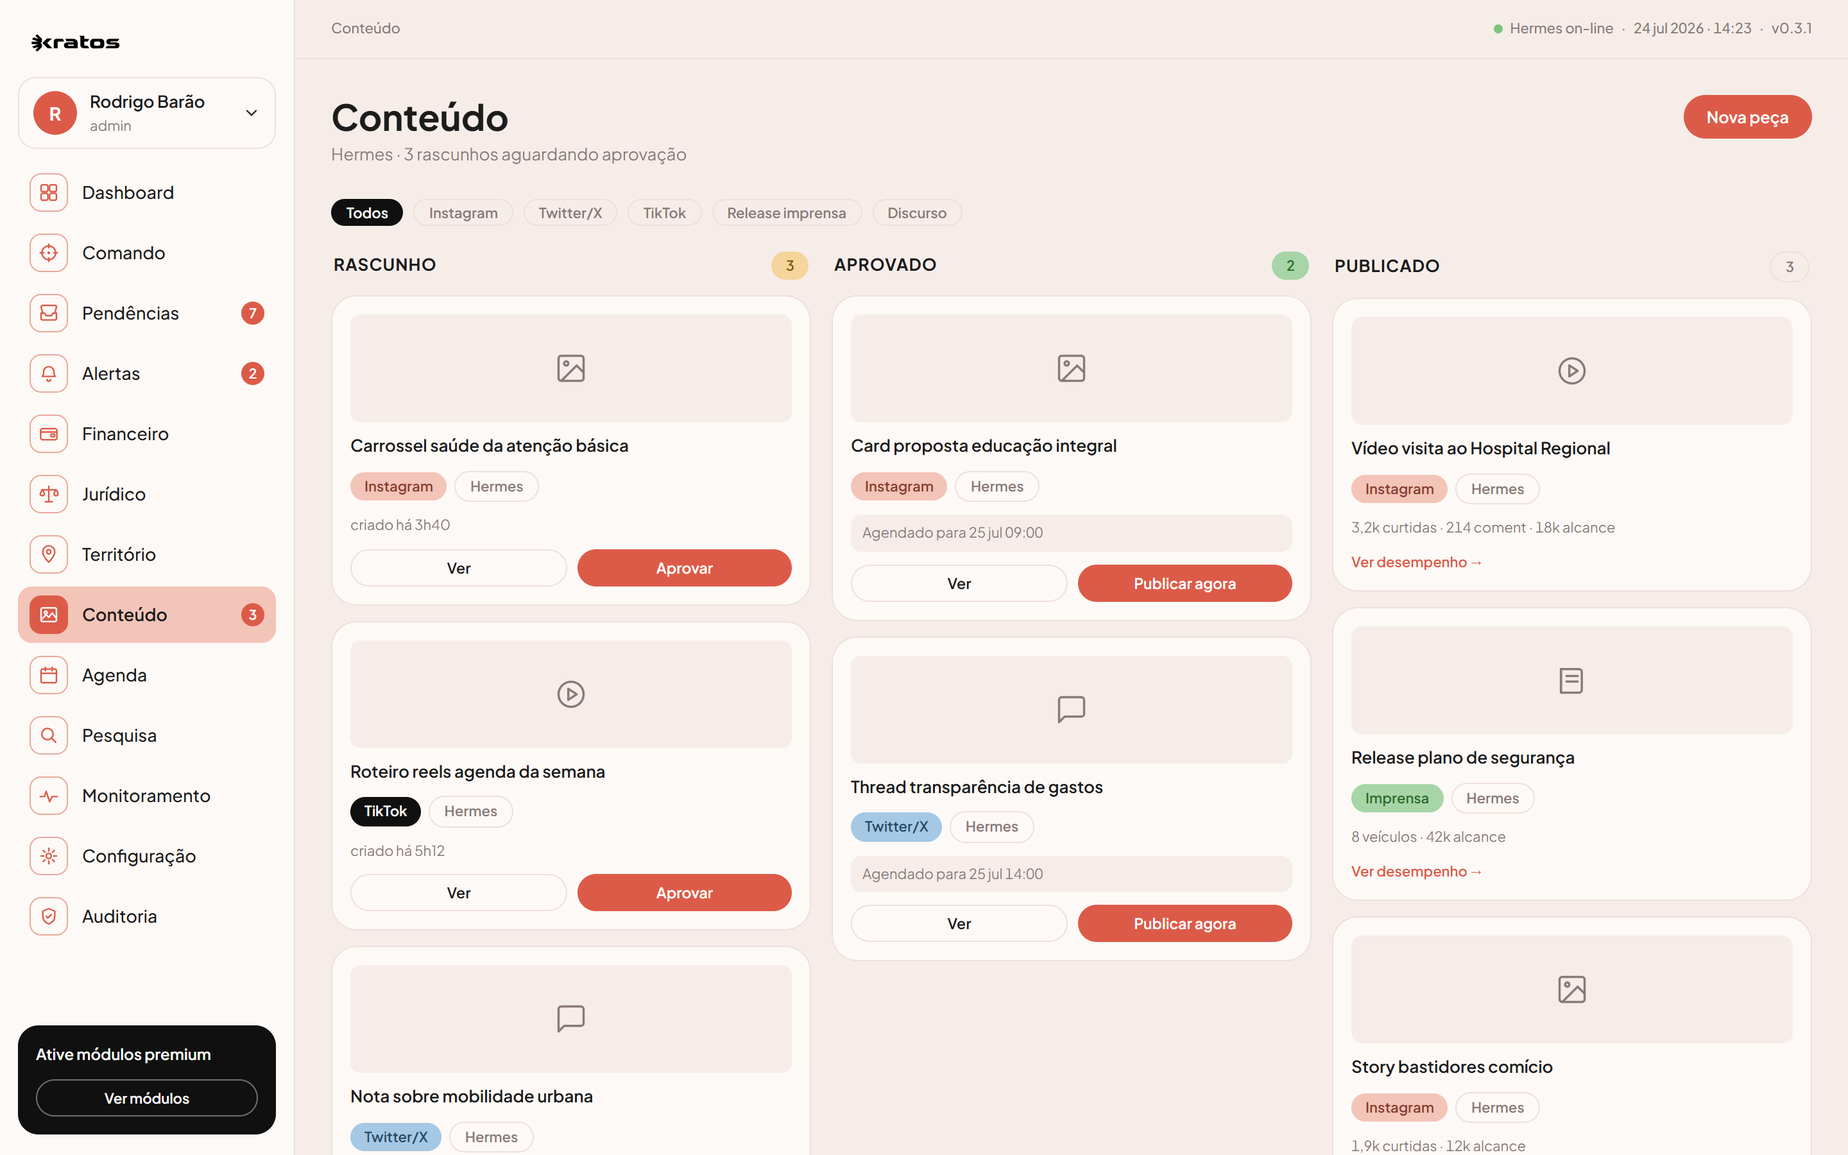
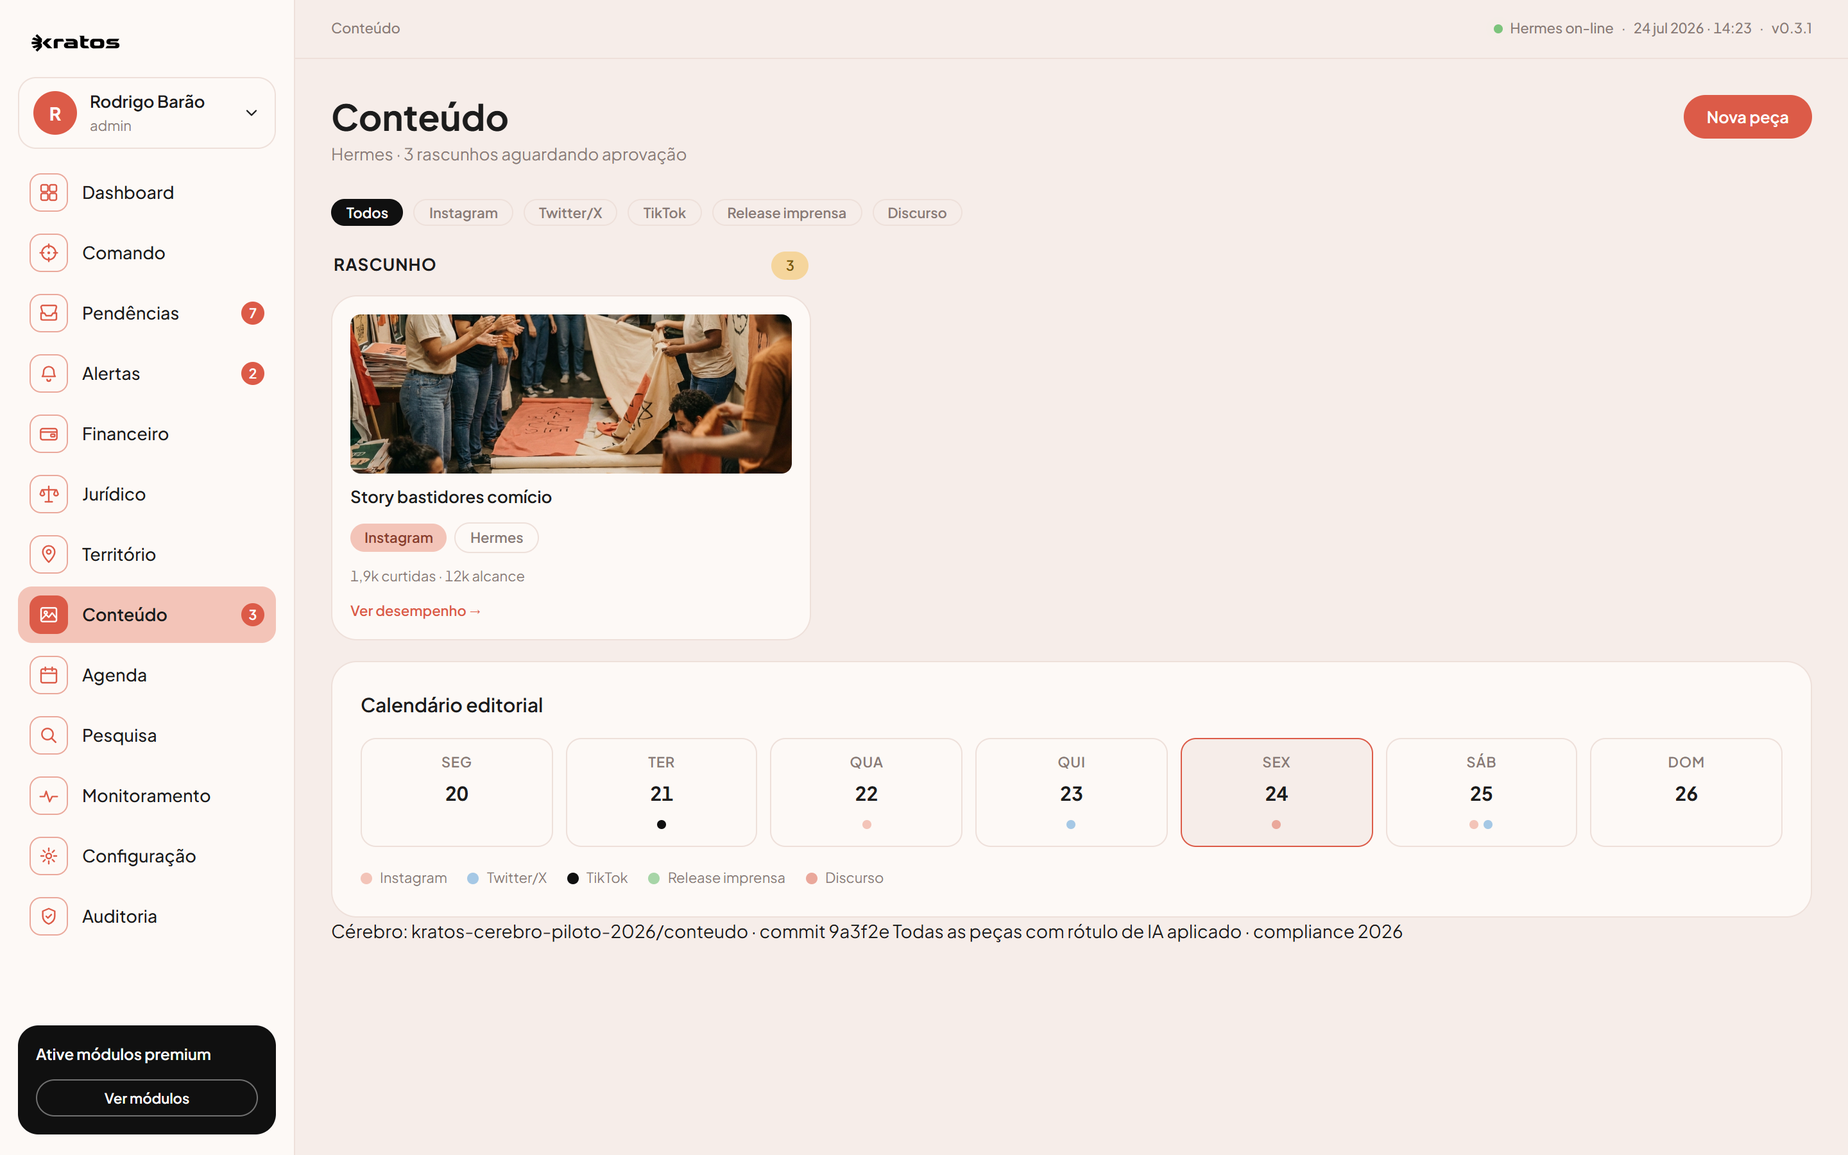
deck 18 slides: 7 telas 'como funciona' + imagem cérebro (sem oferta)

diff --git a/apresentacao.html b/apresentacao.html
@@ -8,7 +8,7 @@
 <style>
   :root{
     --base:#f6ede9; --white:#fdf9f6; --preto:#0d0b0a; --preto2:#161210;
-    --coral:#dc5b48; --coral-suave:#eaa89b; --coral-deep:#b23a28;
+    --coral:#dc5b48; --coral-suave:#eaa89b; --coral-deep:#b23a28; --coral-hover:#c44e3d;
     --verde:#7cc47c; --vermelho:#e05555; --ambar:#e6a52e; --azul:#5c9ad1;
     --texto:#1c1c1c; --muted:#8a7a76; --border:#eee0da; --border-dark:#2c2622;
     --font:"Plus Jakarta Sans",-apple-system,BlinkMacSystemFont,"Segoe UI",Roboto,system-ui,sans-serif;
@@ -60,7 +60,7 @@
   @media (max-width:860px){.cols,.cols.rev{grid-template-columns:1fr;gap:22px;}}
 
   /* browser frame p/ screenshots */
-  .browser{border-radius:13px;overflow:hidden;box-shadow:0 26px 60px rgba(0,0,0,.28);border:1px solid rgba(0,0,0,.08);background:#fff;}
+  .browser{border-radius:13px;overflow:hidden;box-shadow:0 26px 60px rgba(0,0,0,.28);border:1px solid rgba(0,0,0,.08);background:#fff;position:relative;}
   .dark .browser{border-color:#2c2622;box-shadow:0 30px 70px rgba(0,0,0,.5);}
   .browser .bbar{background:#ece3d9;padding:9px 13px;display:flex;align-items:center;gap:7px;}
   .browser .bdot{width:11px;height:11px;border-radius:50%;flex:none;}
@@ -69,7 +69,6 @@
   .browser.clic{cursor:pointer;transition:transform .18s var(--ease),box-shadow .18s var(--ease);}
   .browser.clic:hover{transform:translateY(-3px);box-shadow:0 34px 74px rgba(0,0,0,.34);}
   .browser .opendica{position:absolute;top:10px;right:12px;background:var(--coral);color:#fff;font-size:10.5px;font-weight:700;letter-spacing:0.04em;padding:4px 10px;border-radius:99px;opacity:0;transition:opacity .18s;pointer-events:none;}
-  .browser{position:relative;}
   .browser.clic:hover .opendica{opacity:1;}
   .shotcap{margin-top:14px;font-size:13px;color:var(--muted);font-weight:600;text-align:center;}
   .dark .shotcap{color:#b7a99e;}
@@ -82,6 +81,10 @@
   .photohero{border-radius:16px;overflow:hidden;box-shadow:0 26px 60px rgba(0,0,0,.3);}
   .photohero img{display:block;width:100%;height:100%;max-height:66vh;object-fit:cover;}
 
+  /* concept image (imagem-assinatura) */
+  .conceptframe{border-radius:18px;overflow:hidden;box-shadow:0 34px 80px rgba(0,0,0,.55);border:1px solid rgba(220,91,72,.28);}
+  .conceptframe img{display:block;width:100%;max-height:66vh;object-fit:cover;}
+
   /* flow / cards */
   .flowcards{display:grid;grid-template-columns:1fr 1fr;gap:11px;}
   .fcard{background:var(--white);border:1px solid var(--border);border-radius:13px;padding:14px 15px;}
@@ -92,6 +95,12 @@
   .srcbubble .mic{width:42px;height:42px;border-radius:11px;background:var(--coral);flex:none;display:flex;align-items:center;justify-content:center;}
   .srcbubble .mic svg{width:19px;height:19px;fill:#fff;}
   .srcbubble .qt{font-size:14px;line-height:1.4;font-style:italic;}
+
+  /* highlights list (financeiro/juridico etc) */
+  .hlist{display:flex;flex-direction:column;gap:9px;margin-top:16px;}
+  .hitem{display:flex;gap:11px;align-items:flex-start;font-size:14.5px;line-height:1.4;color:var(--texto);}
+  .dark .hitem{color:#d8ccc2;}
+  .hitem .bt{width:9px;height:9px;border-radius:3px;background:var(--coral);flex:none;margin-top:6px;} .hitem b{font-weight:700;}
 
   /* thermometer */
   .thermo{display:flex;flex-direction:column;gap:14px;margin-top:8px;}
@@ -126,14 +135,6 @@
   .secitem .chk{width:25px;height:25px;border-radius:8px;background:#1e2a1e;border:1px solid #2f4a2f;flex:none;display:flex;align-items:center;justify-content:center;}
   .secitem .chk svg{width:13px;height:13px;stroke:var(--verde);}
   .secitem .st{font-size:14.5px;line-height:1.4;color:#c7b8ac;} .secitem .st b{color:#fff;font-weight:600;}
-
-  /* offer */
-  .seal{display:inline-flex;flex-direction:column;align-items:center;justify-content:center;width:112px;height:112px;border-radius:50%;
-    background:linear-gradient(135deg,#f0d17a,#dca94a);color:#5a3d0e;font-weight:800;text-align:center;box-shadow:0 14px 34px rgba(220,169,74,.4);margin-bottom:22px;}
-  .seal .big{font-size:26px;line-height:1;} .seal .sm{font-size:10px;letter-spacing:0.14em;text-transform:uppercase;margin-top:4px;}
-  .offlist{display:flex;flex-direction:column;gap:12px;max-width:620px;margin-top:18px;}
-  .offitem{display:flex;gap:11px;align-items:flex-start;font-size:14.5px;line-height:1.4;}
-  .offitem .bt{width:9px;height:9px;border-radius:3px;background:var(--coral);flex:none;margin-top:6px;} .offitem b{font-weight:700;}
 
   .cta-btn{display:inline-block;margin-top:28px;background:var(--coral);color:#fff;font-weight:800;font-size:clamp(15px,1.7vw,20px);padding:15px 30px;border-radius:99px;text-decoration:none;transition:transform .16s var(--ease),background .16s;}
   .cta-btn:hover{background:var(--coral-hover);transform:translateY(-2px);}
@@ -223,41 +224,73 @@
     </div>
   </section>
 
-  <!-- 6 FOTO DA NOTA (foto real + screenshot financeiro) -->
+  <!-- 6 FINANCEIRO (foto real + copy enriquecida) -->
   <section class="slide light">
     <div class="slide-inner cols rev">
       <div class="rise">
         <div class="photohero"><img src="assets/process/nota-foto.png" alt="Foto de nota fiscal sendo tirada"></div>
       </div>
       <div>
-        <div class="eyebrow rise">A dor que tira seu sono</div>
+        <div class="eyebrow rise">Financeiro · todo mundo no mesmo lugar</div>
         <h1 class="head rise">A foto de uma nota vira sua prestação de contas.</h1>
-        <p class="body rise">A equipe fotografa a nota no grupo. O Kratos lê o valor, o CNPJ, a data. Arquiva sozinho na pasta certa e atualiza o seu teto de gastos na hora.</p>
-        <div class="fecho rise">Pronta o tempo todo. Nunca na véspera. <span class="hl">Nunca estourando o teto.</span></div>
+        <p class="body rise">Tesoureiro, coordenador, fornecedor — qualquer um fotografa a nota no grupo e tudo cai no mesmo lugar, organizado sozinho. O Kratos lê os dados direto na SEFAZ (oficial, não adivinhação por foto), arquiva por fornecedor e atualiza seu teto do TSE na hora.</p>
+        <div class="hlist rise">
+          <div class="hitem"><span class="bt"></span><div><b>Prestação de contas sem surpresa</b> — pronta o tempo todo, nunca na véspera.</div></div>
+          <div class="hitem"><span class="bt"></span><div><b>Nunca estourar o teto</b> — o limite do TSE recalculado a cada gasto.</div></div>
+          <div class="hitem"><span class="bt"></span><div><b>Tudo que gasta cai organizado</b> — por fornecedor, com a nota anexada.</div></div>
+        </div>
+        <div class="fecho rise">A conta é sua. <span class="hl">O Kratos, junto do seu contador, blinda o seu nome.</span></div>
       </div>
     </div>
   </section>
 
-  <!-- 7 SHOWCASE: CONTROLE DE MISSAO (screenshot real) -->
+  <!-- 7 JURIDICO (novo: foto + tela juridico) -->
   <section class="slide light">
-    <div class="slide-inner showcase" style="text-align:center;">
-      <div class="eyebrow rise">O sistema, de verdade</div>
-      <h1 class="head rise" style="margin:0 auto 20px;max-width:22ch;">A campanha inteira numa tela só.</h1>
-      <div class="rise browser" style="max-width:1000px;margin:0 auto;">
-        <div class="bbar"><span class="bdot" style="background:#ff5f57;"></span><span class="bdot" style="background:#febc2e;"></span><span class="bdot" style="background:#28c840;"></span><span class="burl">kratos.nexuseng.io</span></div>
-        <img src="assets/shots/comando.png" alt="Painel de comando do Kratos">
+    <div class="slide-inner cols">
+      <div>
+        <div class="eyebrow rise">Jurídico · Nomos</div>
+        <h1 class="head rise">A resposta jurídica antes de você errar.</h1>
+        <p class="body rise">"Posso fazer isso?" O Kratos consulta as regras do TSE e responde na hora. Dúvida simples, resolve na hora. Risco sério, ele encaminha pro advogado com a fonte da regra em cima. Nunca decide sozinho.</p>
+        <div class="hlist rise">
+          <div class="hitem"><span class="bt"></span><div><b>Alerta de conduta vedada</b> perto das datas críticas do calendário.</div></div>
+          <div class="hitem"><span class="bt"></span><div><b>Cada decisão registrada</b> com a regra que a fundamentou.</div></div>
+        </div>
+        <div class="fecho rise">Você anda rápido <span class="hl">sem pisar em cima da lei.</span></div>
       </div>
-      <div class="shotcap rise">Controle de Missão · o que decidir hoje, onde está o dinheiro, o que o povo pede, o que está em risco.</div>
+      <div class="rise">
+        <div class="browser">
+          <div class="bbar"><span class="bdot" style="background:#ff5f57;"></span><span class="bdot" style="background:#febc2e;"></span><span class="bdot" style="background:#28c840;"></span><span class="burl">kratos.nexuseng.io/juridico</span></div>
+          <img src="assets/shots/juridico.png" alt="Tela do jurídico do Kratos">
+        </div>
+      </div>
     </div>
   </section>
 
-  <!-- 8 TERMOMETRO (screenshot monitoramento + termômetro) -->
+  <!-- 8 MARKETING / HERMES (novo: tela conteudo) -->
+  <section class="slide light">
+    <div class="slide-inner cols rev">
+      <div class="rise">
+        <div class="browser">
+          <div class="bbar"><span class="bdot" style="background:#ff5f57;"></span><span class="bdot" style="background:#febc2e;"></span><span class="bdot" style="background:#28c840;"></span><span class="burl">kratos.nexuseng.io/conteudo</span></div>
+          <img src="assets/shots/conteudo.png" alt="Tela de conteúdo e criativos do Kratos">
+        </div>
+      </div>
+      <div>
+        <div class="eyebrow rise">Comunicação · Hermes</div>
+        <h1 class="head rise">Uma agência de marketing dentro da campanha. 24 horas.</h1>
+        <p class="body rise">Post, story, discurso — e também imagem, vídeo e voz — sempre na sua narrativa, sem contradizer o que você já disse. É como ter uma agência inteira de plantão, dia e noite. Nada é publicado sem a sua aprovação.</p>
+        <div class="fecho rise">O conteúdo não para. <span class="hl">E toda peça de IA já sai rotulada — compliance 2026.</span></div>
+      </div>
+    </div>
+  </section>
+
+  <!-- 9 RADAR DE CONTEUDO (enriquecido: grupos de WhatsApp + tela monitoramento) -->
   <section class="slide dark">
     <div class="slide-inner cols">
       <div>
-        <div class="eyebrow rise">O termômetro</div>
-        <h1 class="head rise">Você sabe o que o povo fala antes do adversário.</h1>
-        <p class="body rise">O Kratos está nos grupos de WhatsApp, no Instagram, no X, no Telegram. Escuta tudo que se fala sobre você e mede a temperatura de cada assunto.</p>
+        <div class="eyebrow rise">Radar de conteúdo · Argos</div>
+        <h1 class="head rise">Todo grupo de WhatsApp lido. Sem você ler nenhum.</h1>
+        <p class="body rise">São dezenas de grupos, centenas de mensagens por dia — ninguém consegue ler tudo. O Kratos lê. Escuta os grupos, o Instagram, o X, o TikTok e a imprensa, sem parar, e mede a temperatura de cada assunto.</p>
         <div class="thermo rise">
           <div class="trow"><div class="name">Saúde</div><div class="gauge g-hot"><i></i></div><div class="tag hot">BOMBANDO</div></div>
           <div class="trow"><div class="name">Segurança</div><div class="gauge g-warm"><i></i></div><div class="tag warm">esfriando</div></div>
@@ -274,43 +307,89 @@
     </div>
   </section>
 
-  <!-- 9 WAR ROOM (screenshot warroom) -->
+  <!-- 10 CONTROLE DE MISSAO (showcase comando) -->
+  <section class="slide light">
+    <div class="slide-inner showcase" style="text-align:center;">
+      <div class="eyebrow rise">O sistema, de verdade</div>
+      <h1 class="head rise" style="margin:0 auto 20px;max-width:22ch;">A campanha inteira numa tela só.</h1>
+      <div class="rise browser" style="max-width:1000px;margin:0 auto;">
+        <div class="bbar"><span class="bdot" style="background:#ff5f57;"></span><span class="bdot" style="background:#febc2e;"></span><span class="bdot" style="background:#28c840;"></span><span class="burl">kratos.nexuseng.io</span></div>
+        <img src="assets/shots/comando.png" alt="Painel de comando do Kratos">
+      </div>
+      <div class="shotcap rise">Controle de Missão · o que decidir hoje, onde está o dinheiro, o que o povo pede, o que está em risco.</div>
+    </div>
+  </section>
+
+  <!-- 11 LIDERANCAS CRM INTELIGENTE (enriquecido: tela territorio) -->
+  <section class="slide light">
+    <div class="slide-inner cols">
+      <div>
+        <div class="eyebrow rise">Lideranças · CRM inteligente</div>
+        <h1 class="head rise">Todas as suas lideranças num CRM que pensa.</h1>
+        <p class="body rise">Cada liderança de cada cidade e região no mapa do estado, com WhatsApp integrado. Você alinha a comunicação, envia material e acompanha a timeline do que cada uma prometeu — e do que entregou.</p>
+        <div class="fecho rise">No fim da campanha, você cruza o esperado com o realizado — <span class="hl">e sabe quem entregou voto de verdade.</span></div>
+      </div>
+      <div class="rise">
+        <div class="browser">
+          <div class="bbar"><span class="bdot" style="background:#ff5f57;"></span><span class="bdot" style="background:#febc2e;"></span><span class="bdot" style="background:#28c840;"></span><span class="burl">kratos.nexuseng.io/territorio</span></div>
+          <img src="assets/shots/territorio.png" alt="Mapa de lideranças de Santa Catarina no Kratos">
+        </div>
+      </div>
+    </div>
+  </section>
+
+  <!-- 12 PESQUISA E DADOS (novo: tela pesquisa) -->
   <section class="slide dark">
     <div class="slide-inner cols rev">
       <div class="rise">
         <div class="browser">
-          <div class="bbar"><span class="bdot" style="background:#ff5f57;"></span><span class="bdot" style="background:#febc2e;"></span><span class="bdot" style="background:#28c840;"></span><span class="burl">kratos.nexuseng.io/crise</span></div>
-          <img src="assets/shots/warroom.png" alt="War Room de crise do Kratos">
+          <div class="bbar"><span class="bdot" style="background:#ff5f57;"></span><span class="bdot" style="background:#febc2e;"></span><span class="bdot" style="background:#28c840;"></span><span class="burl">kratos.nexuseng.io/pesquisa</span></div>
+          <img src="assets/shots/pesquisa.png" alt="Tela de pesquisa e dados do Kratos">
         </div>
       </div>
+      <div>
+        <div class="eyebrow rise">Pesquisa e dados · Athena</div>
+        <h1 class="head rise">Números que decidem. Sem achismo, sem invenção.</h1>
+        <p class="body rise">O Kratos lê as pesquisas separando o que é fato, o que é hipótese e o que é recomendação. Compara cenários no tempo, sempre com a fonte e a margem de erro. E te avisa quando a pesquisa é fraca demais pra confiar.</p>
+        <div class="fecho rise">Você decide com clareza. <span class="hl">E o Kratos nunca inventa um número.</span></div>
+      </div>
+    </div>
+  </section>
+
+  <!-- 13 WAR ROOM (screenshot warroom) -->
+  <section class="slide dark">
+    <div class="slide-inner cols">
       <div>
         <div class="eyebrow rise">A sala de guerra</div>
         <h1 class="head rise">A crise não te pega de surpresa. Nunca mais.</h1>
         <p class="body rise">No momento em que um ataque começa a se espalhar, o Kratos detecta — antes de crescer. Junta as provas, acha a origem e monta o plano de resposta. Você entra na sala de guerra e decide.</p>
         <div class="fecho rise">O adversário reage no desespero. <span class="hl">Você responde com estratégia.</span></div>
       </div>
-    </div>
-  </section>
-
-  <!-- 10 TERRITORIO (screenshot territorio) -->
-  <section class="slide light">
-    <div class="slide-inner cols">
-      <div>
-        <div class="eyebrow rise">O território na palma da mão</div>
-        <h1 class="head rise">Cada bairro, cada demanda, cada voto.</h1>
-        <p class="body rise">O Kratos mostra onde o povo pede o quê, quais bairros estão descobertos e onde vale a pena ir. Sua agenda deixa de ser achismo e passa a ser estratégia.</p>
-        <div class="fecho rise">Você não visita no escuro. <span class="hl">Você vai onde o voto está.</span></div>
-      </div>
       <div class="rise">
         <div class="browser">
-          <div class="bbar"><span class="bdot" style="background:#ff5f57;"></span><span class="bdot" style="background:#febc2e;"></span><span class="bdot" style="background:#28c840;"></span><span class="burl">kratos.nexuseng.io/territorio</span></div>
-          <img src="assets/shots/territorio.png" alt="Mapa de território do Kratos">
+          <div class="bbar"><span class="bdot" style="background:#ff5f57;"></span><span class="bdot" style="background:#febc2e;"></span><span class="bdot" style="background:#28c840;"></span><span class="burl">kratos.nexuseng.io/crise</span></div>
+          <img src="assets/shots/warroom.png" alt="War Room de crise do Kratos">
         </div>
       </div>
     </div>
   </section>
 
-  <!-- 11 AGENTES -->
+  <!-- 14 O CEREBRO (novo: imagem-assinatura) -->
+  <section class="slide dark">
+    <div class="slide-inner cols">
+      <div>
+        <div class="eyebrow rise">O cérebro</div>
+        <h1 class="head rise">Não são sete ferramentas soltas. É um cérebro só.</h1>
+        <p class="body rise">Cada agente sabe o que o outro sabe. O financeiro conversa com o jurídico, o território com a comunicação, o monitoramento com a estratégia. Uma informação entra num canto e atravessa a campanha inteira — coordenada por uma inteligência central que nunca dorme.</p>
+        <div class="fecho rise">Sete especialistas. <span class="hl">Uma só cabeça pensando na sua campanha.</span></div>
+      </div>
+      <div class="rise">
+        <div class="conceptframe"><img src="assets/conceitos/cerebro.png" alt="O cérebro da campanha coordenando as informações"></div>
+      </div>
+    </div>
+  </section>
+
+  <!-- 15 AGENTES -->
   <section class="slide light">
     <div class="slide-inner">
       <div class="eyebrow rise">A equipe que nunca dorme</div>
@@ -328,7 +407,7 @@
     </div>
   </section>
 
-  <!-- 12 O DIA -->
+  <!-- 16 O DIA -->
   <section class="slide light">
     <div class="slide-inner cols">
       <div>
@@ -348,7 +427,7 @@
     </div>
   </section>
 
-  <!-- 13 SEGURANCA -->
+  <!-- 17 SEGURANCA -->
   <section class="slide dark">
     <div class="slide-inner">
       <div class="eyebrow rise">Você no controle</div>
@@ -363,21 +442,7 @@
     </div>
   </section>
 
-  <!-- 14 OFERTA -->
-  <section class="slide light">
-    <div class="slide-inner">
-      <div class="eyebrow rise">Consultoria premium</div>
-      <h1 class="head wide rise">Nós operamos a máquina junto com você.</h1>
-      <div class="offlist rise">
-        <div class="offitem"><span class="bt"></span><div><b>Operação de ponta a ponta.</b> Nós entramos na campanha e tocamos o Kratos por dentro — estratégia, financeiro, jurídico, comunicação e território. Sua equipe foca em gente e voto.</div></div>
-        <div class="offitem"><span class="bt"></span><div><b>Do seu lado, todo dia.</b> Não é um sistema que você compra e vira as costas. É um time operando a sua sala de comando com você.</div></div>
-        <div class="offitem"><span class="bt"></span><div><b>Serviço premium.</b> Para quem joga pra ganhar e quer inteligência de verdade dentro da operação.</div></div>
-      </div>
-      <div class="fecho rise">Você não compra uma ferramenta. <span class="hl">Você ganha uma sala de comando — e um time operando ela.</span></div>
-    </div>
-  </section>
-
-  <!-- 15 CTA -->
+  <!-- 18 CTA -->
   <section class="slide dark capa">
     <div class="slide-inner">
       <div class="eyebrow rise">A hora é agora</div>
@@ -392,7 +457,7 @@
 
 <div class="clickzone left" id="zleft"></div>
 <div class="clickzone right" id="zright"></div>
-<div class="counter"><span id="cur">01</span> / <span id="tot">15</span></div>
+<div class="counter"><span id="cur">01</span> / <span id="tot">18</span></div>
 <div class="brandmark">Kratos</div>
 <div class="nav">
   <button id="prev" aria-label="Anterior">‹</button>
@@ -432,7 +497,15 @@
     if(Math.abs(dx)>50)go(dx<0?1:-1); x0=null;
   },{passive:true});
   // screenshots clicáveis -> abrem a tela real do mockup
-  var SCRMAP={'kratos.nexuseng.io':'home.html','kratos.nexuseng.io/monitoramento':'monitoramento.html','kratos.nexuseng.io/crise':'war-room-crise.html','kratos.nexuseng.io/territorio':'territorio.html'};
+  var SCRMAP={
+    'kratos.nexuseng.io':'home.html',
+    'kratos.nexuseng.io/juridico':'juridico.html',
+    'kratos.nexuseng.io/conteudo':'conteudo.html',
+    'kratos.nexuseng.io/monitoramento':'monitoramento.html',
+    'kratos.nexuseng.io/territorio':'territorio.html',
+    'kratos.nexuseng.io/pesquisa':'pesquisa.html',
+    'kratos.nexuseng.io/crise':'war-room-crise.html'
+  };
   document.querySelectorAll('.browser').forEach(function(b){
     var u=b.querySelector('.burl'); if(!u) return;
     var href=SCRMAP[u.textContent.trim()]; if(!href) return;
